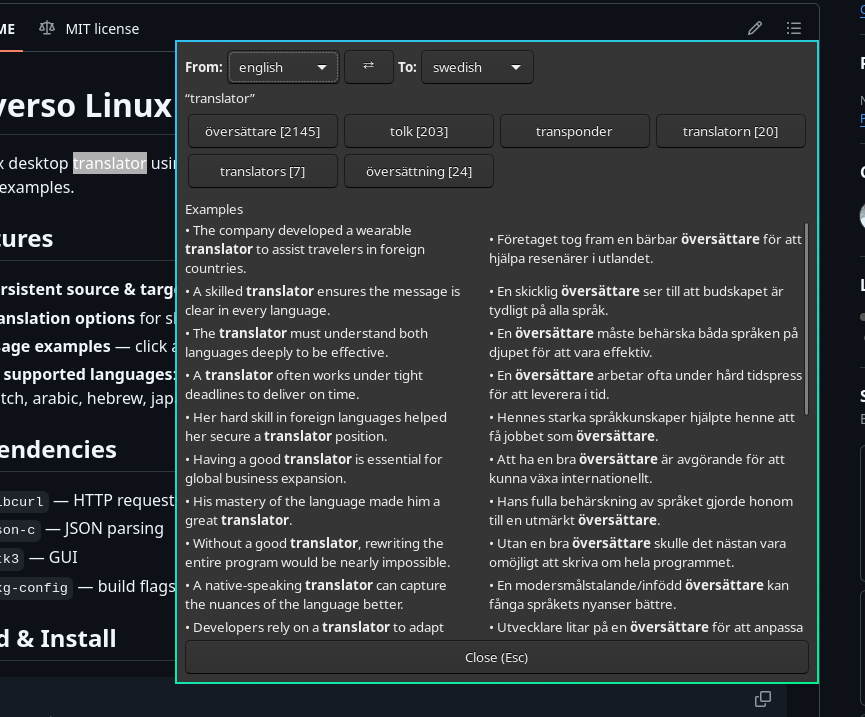
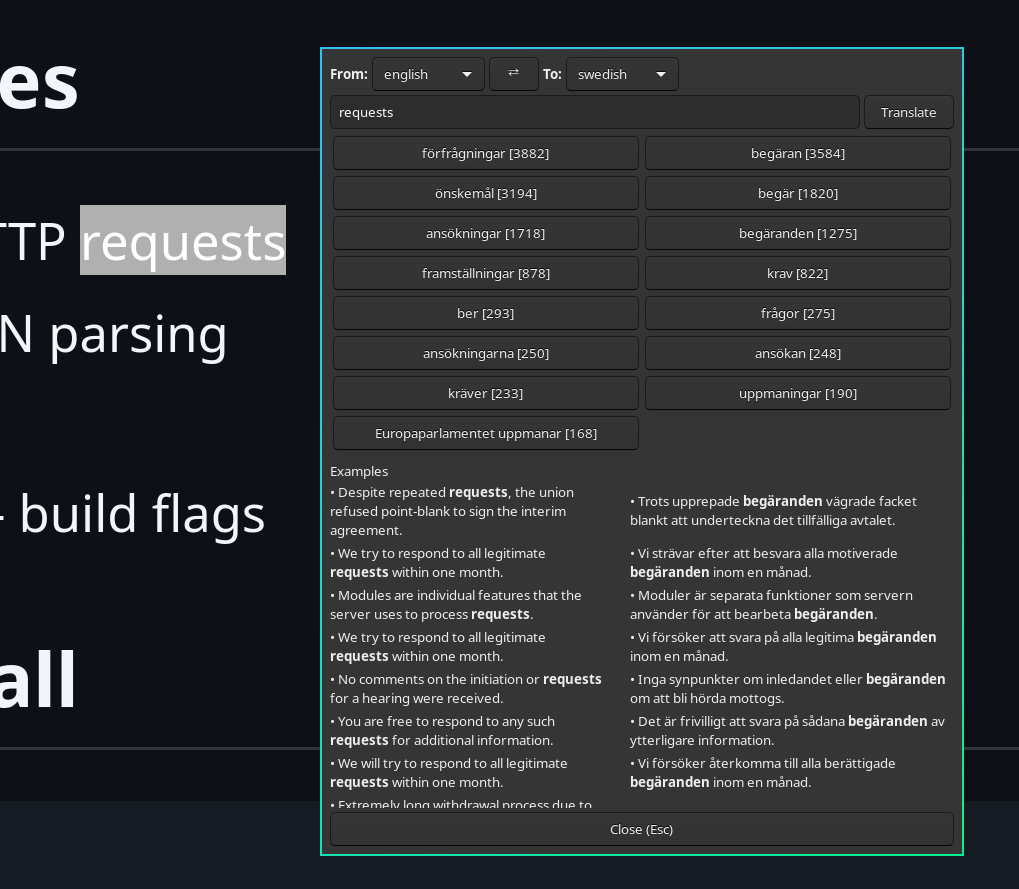
add input & translate button

diff --git a/src/gui.c b/src/gui.c
@@ -13,7 +13,8 @@ static struct {
     GtkWidget *content_box;
     GtkWidget *source_combo;
     GtkWidget *target_combo;
-    GtkWidget *text_label;
+    GtkWidget *text_entry;
+    GtkWidget *translate_btn;
     GtkWidget *examples_header;
     GtkWidget *examples_grid;
     GtkWidget *option_buttons[64];
@@ -369,9 +370,7 @@ static void retranslate(void) {
         if (selected_text) {
             free(ctx.input_text);
             ctx.input_text = selected_text;
-            char buf[520];
-            snprintf(buf, sizeof(buf), "\xe2\x80\x9c%.500s\xe2\x80\x9d", ctx.input_text);
-            gtk_label_set_text(GTK_LABEL(ctx.text_label), buf);
+            gtk_entry_set_text(GTK_ENTRY(ctx.text_entry), ctx.input_text);
         }
 
         g_free(src); g_free(tgt);
@@ -412,9 +411,7 @@ static void on_swap_clicked(GtkButton *btn, gpointer data) {
     if (selected_text) {
         free(ctx.input_text);
         ctx.input_text = selected_text;
-        char buf[520];
-        snprintf(buf, sizeof(buf), "\xe2\x80\x9c%.500s\xe2\x80\x9d", ctx.input_text);
-        gtk_label_set_text(GTK_LABEL(ctx.text_label), buf);
+        gtk_entry_set_text(GTK_ENTRY(ctx.text_entry), ctx.input_text);
     }
 
     g_free(src);
@@ -445,6 +442,23 @@ static GtkWidget *make_lang_combo(GtkBox *parent, const char *label_text) {
             GTK_COMBO_BOX_TEXT(combo), SUPPORTED_LANGUAGES[i]);
     gtk_box_pack_start(parent, combo, FALSE, FALSE, 0);
     return combo;
+}
+
+static void on_translate_clicked(void) {
+    const char *new_text = gtk_entry_get_text(GTK_ENTRY(ctx.text_entry));
+    if (!new_text || !*new_text) return;
+
+    char *src = gtk_combo_box_text_get_active_text(
+        GTK_COMBO_BOX_TEXT(ctx.source_combo));
+    char *tgt = gtk_combo_box_text_get_active_text(
+        GTK_COMBO_BOX_TEXT(ctx.target_combo));
+    if (!src || !tgt) { g_free(src); g_free(tgt); return; }
+
+    free(ctx.input_text);
+    ctx.input_text = strdup(new_text);
+
+    do_translate(src, tgt);
+    g_free(src); g_free(tgt);
 }
 
 void show_translation_gui(const char *text, const char *source_lang,
@@ -492,13 +506,18 @@ void show_translation_gui(const char *text, const char *source_lang,
     free(saved_lang);
     gtk_box_pack_start(GTK_BOX(vbox), lang_hbox, FALSE, FALSE, 0);
 
-    char text_buf[520];
-    snprintf(text_buf, sizeof(text_buf),
-             "\xe2\x80\x9c%.500s\xe2\x80\x9d", text);
-    ctx.text_label = gtk_label_new(text_buf);
-    gtk_label_set_xalign(GTK_LABEL(ctx.text_label), 0.0);
-    gtk_label_set_line_wrap(GTK_LABEL(ctx.text_label), TRUE);
-    gtk_box_pack_start(GTK_BOX(vbox), ctx.text_label, FALSE, FALSE, 0);
+    GtkWidget *input_hbox = gtk_box_new(GTK_ORIENTATION_HORIZONTAL, 4);
+    ctx.text_entry = gtk_entry_new();
+    gtk_entry_set_text(GTK_ENTRY(ctx.text_entry), text);
+    gtk_entry_set_placeholder_text(GTK_ENTRY(ctx.text_entry), "Enter text to translate...");
+    g_signal_connect(ctx.text_entry, "activate", G_CALLBACK(on_translate_clicked), NULL);
+    gtk_box_pack_start(GTK_BOX(input_hbox), ctx.text_entry, TRUE, TRUE, 0);
+
+    ctx.translate_btn = gtk_button_new_with_label("Translate");
+    g_signal_connect(ctx.translate_btn, "clicked", G_CALLBACK(on_translate_clicked), NULL);
+    gtk_box_pack_start(GTK_BOX(input_hbox), ctx.translate_btn, FALSE, FALSE, 0);
+
+    gtk_box_pack_start(GTK_BOX(vbox), input_hbox, FALSE, FALSE, 0);
 
     ctx.content_box = gtk_box_new(GTK_ORIENTATION_VERTICAL, 2);
     gtk_box_pack_start(GTK_BOX(vbox), ctx.content_box, TRUE, TRUE, 0);